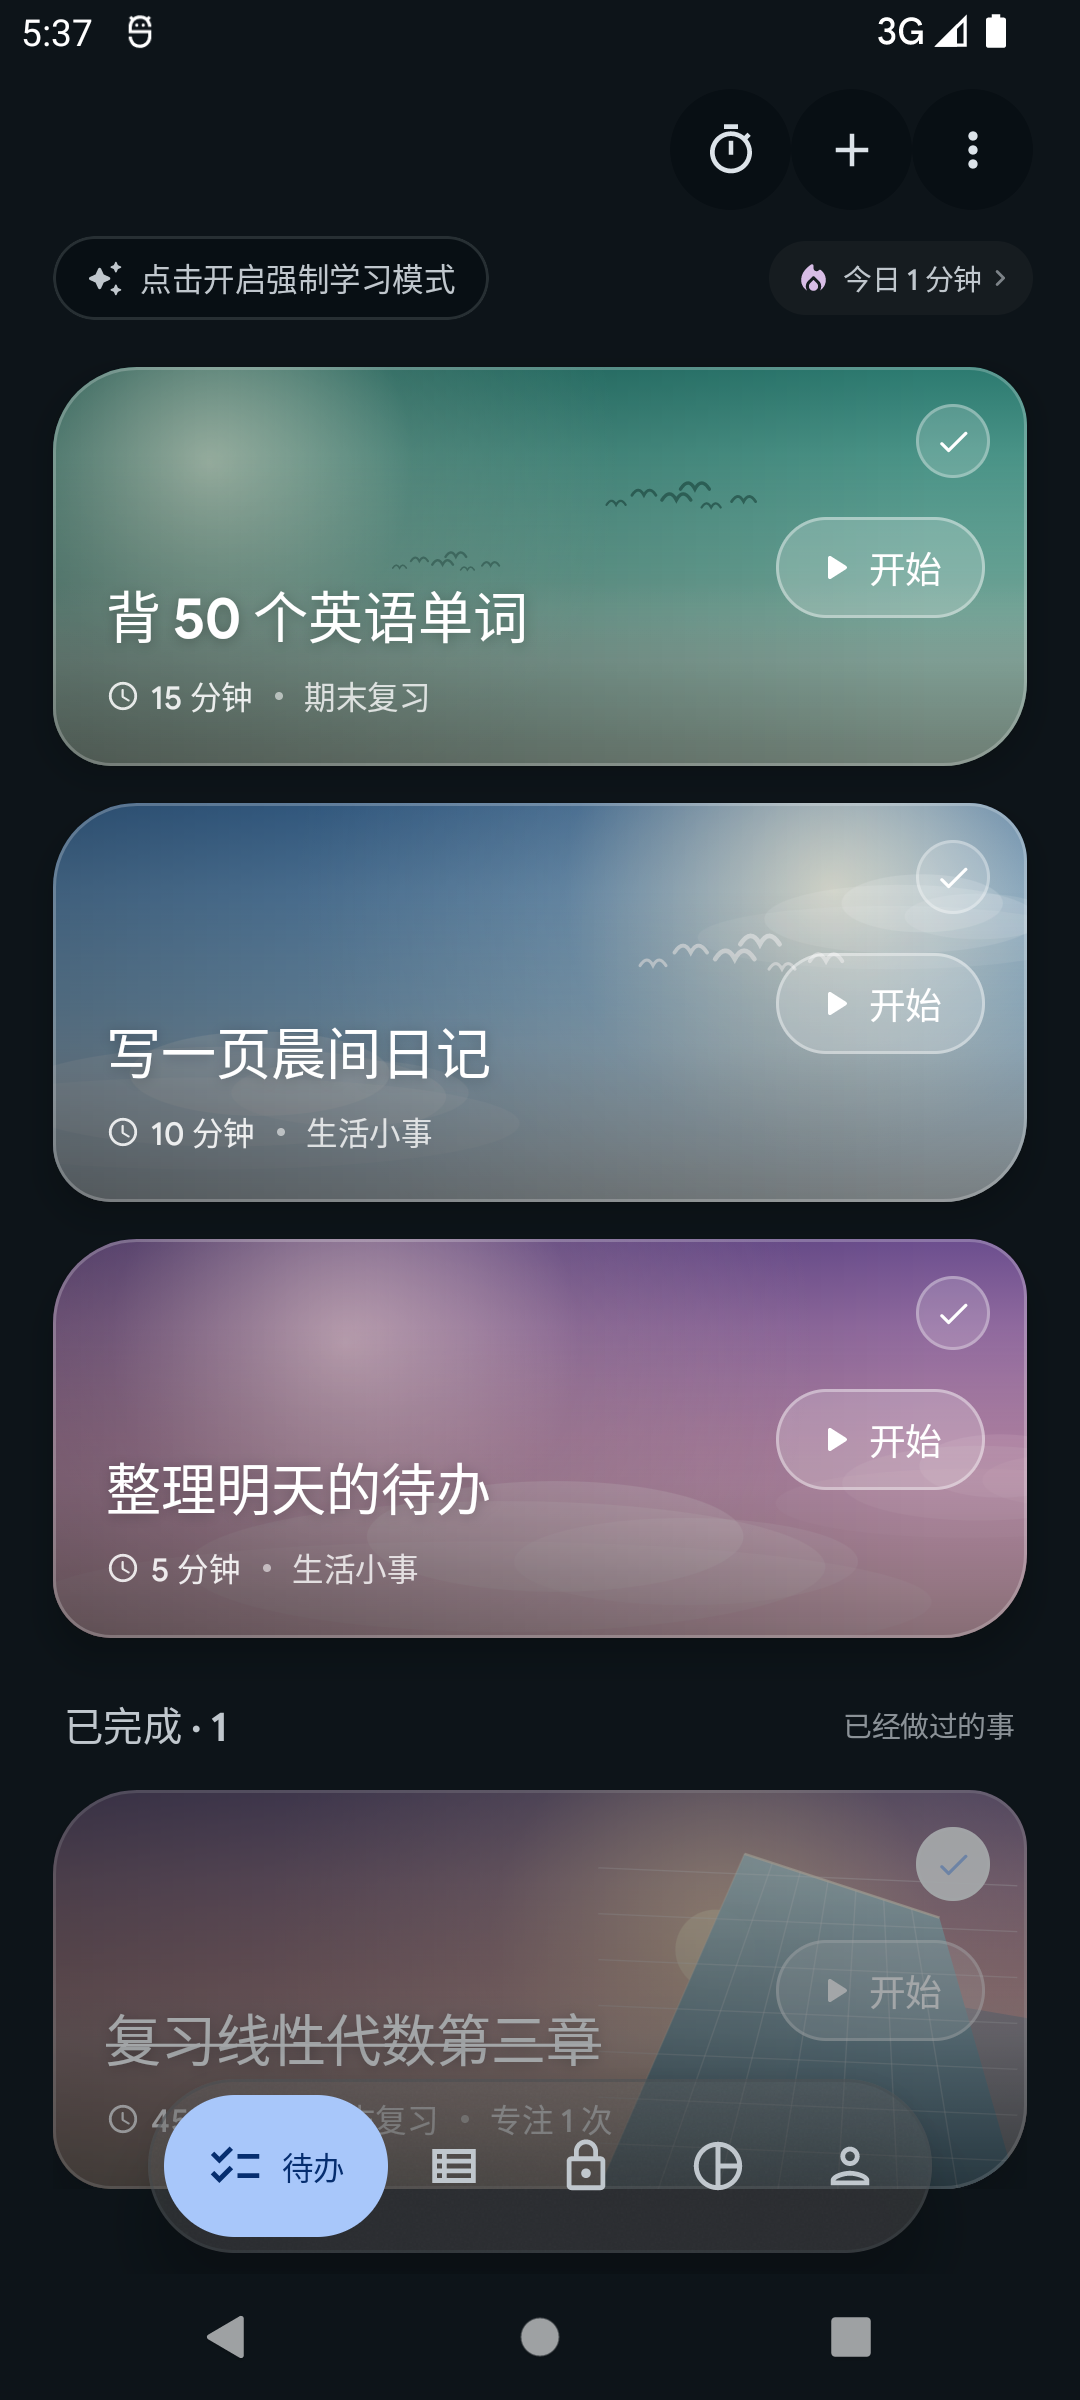
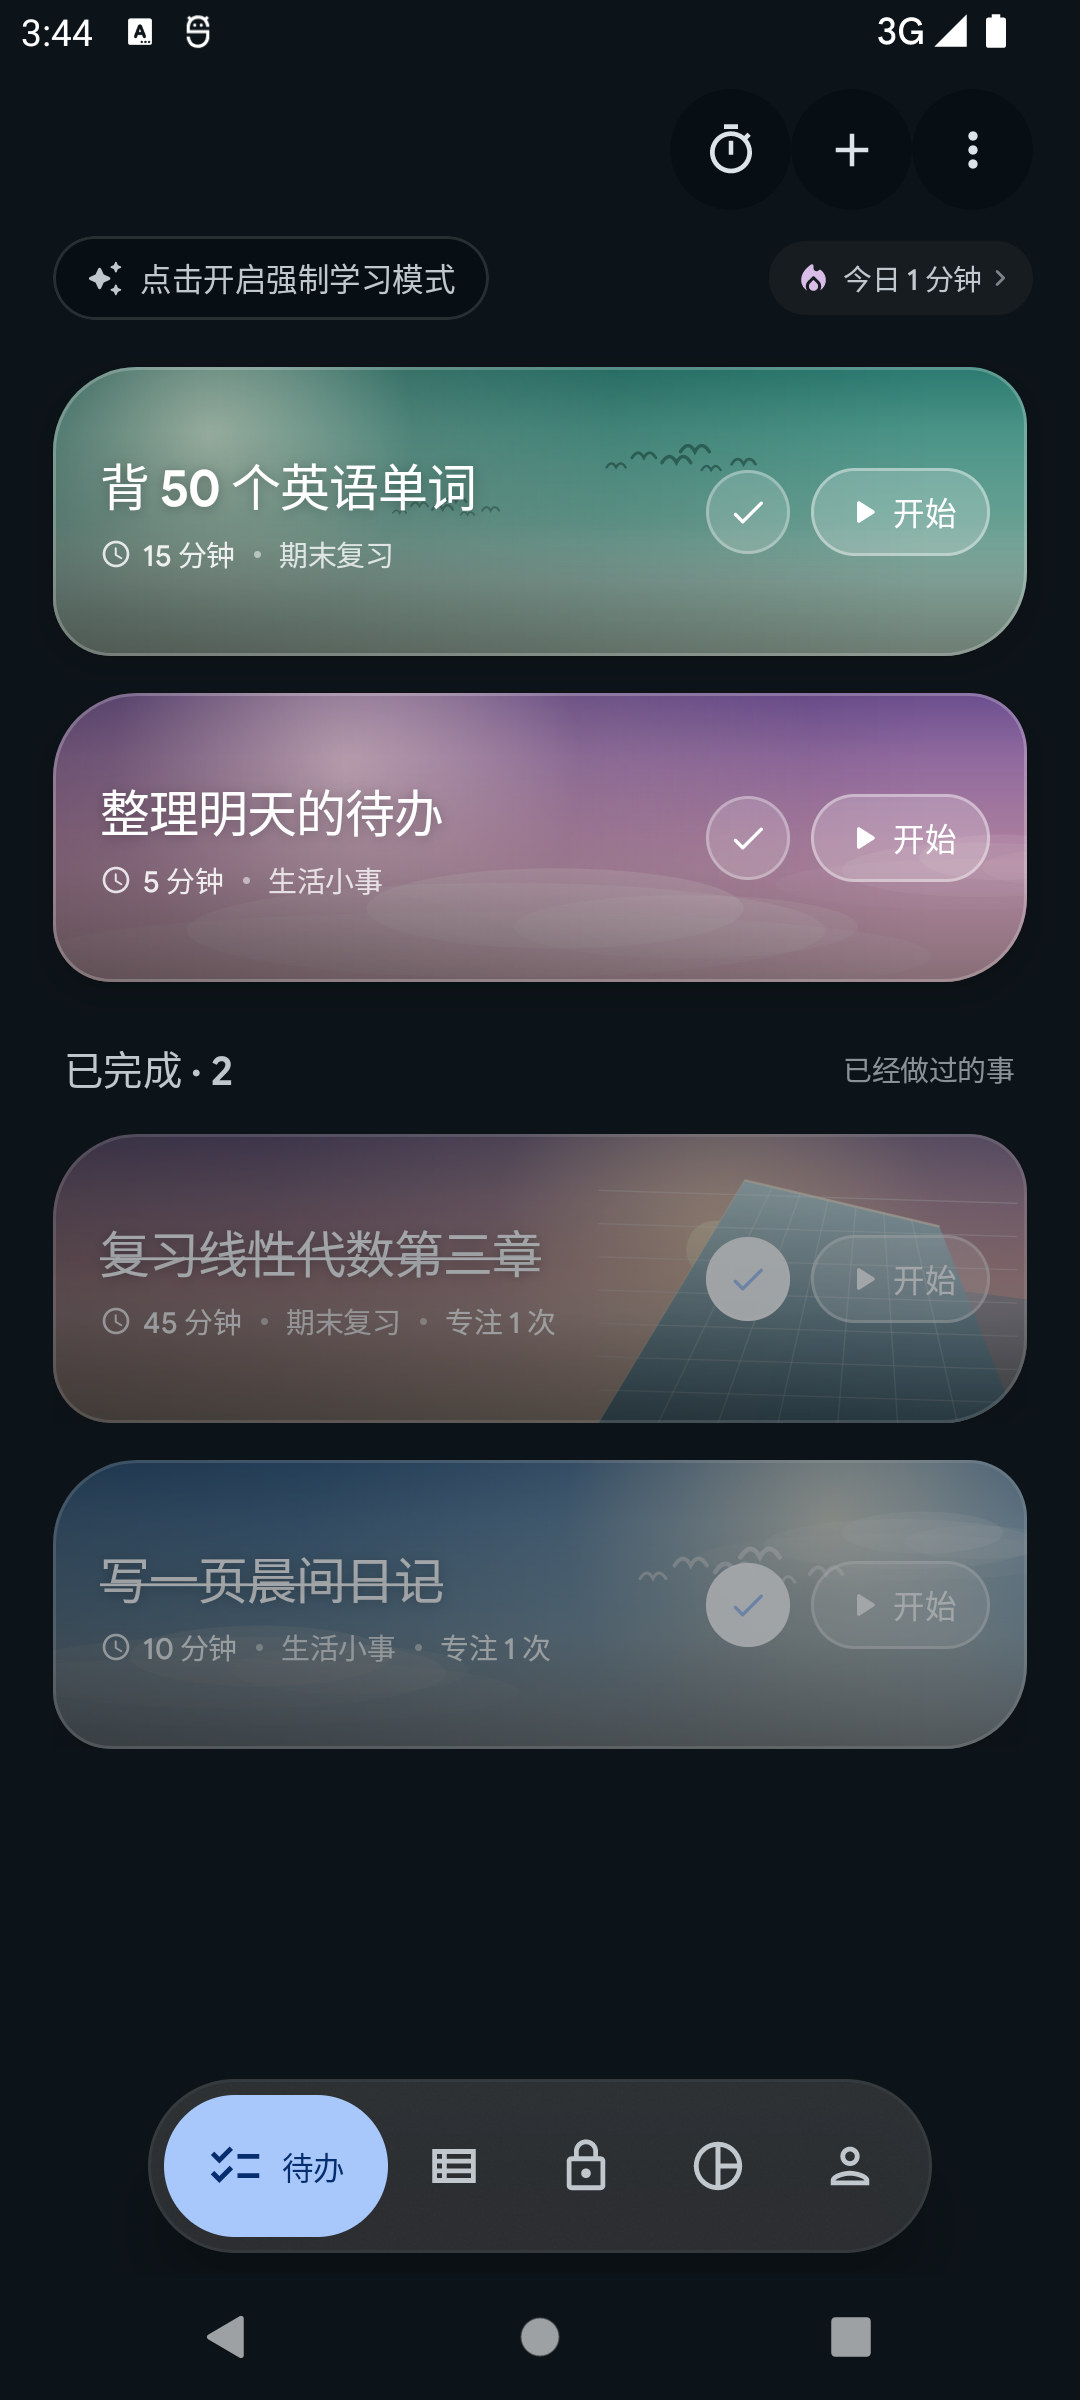
Compact todo cards with inline actions

diff --git a/app/src/main/java/com/tokitodo/app/ui/todos/TodoCard.kt b/app/src/main/java/com/tokitodo/app/ui/todos/TodoCard.kt
@@ -68,7 +68,7 @@ fun TodoCard(
     Box(
         modifier = modifier
             .fillMaxWidth()
-            .height(152.dp)
+            .height(110.dp)
             .alpha(if (todo.done) 0.62f else 1f)
             .shadow(elevation = 10.dp, shape = shape, clip = false)
             .clip(shape)
@@ -97,128 +97,122 @@ fun TodoCard(
                     shape = shape,
                 ),
         )
-        // 完成勾选
-        Surface(
-            onClick = onToggleDone,
-            shape = CircleShape,
-            color = Color.White.copy(alpha = if (todo.done) 0.95f else 0.16f),
-            contentColor = if (todo.done) {
-                MaterialTheme.colorScheme.primary
-            } else {
-                Color.White
-            },
-            border = androidx.compose.foundation.BorderStroke(
-                1.dp,
-                Color.White.copy(alpha = 0.30f),
-            ),
+        Row(
             modifier = Modifier
-                .align(Alignment.TopEnd)
-                .padding(top = 14.dp, end = 14.dp)
-                .size(28.dp),
+                .fillMaxSize()
+                .padding(start = 18.dp, end = 14.dp),
+            verticalAlignment = Alignment.CenterVertically,
         ) {
-            Box(Modifier.fillMaxSize(), contentAlignment = Alignment.Center) {
-                Icon(Icons.Rounded.Check, contentDescription = "完成待办", modifier = Modifier.size(15.dp))
-            }
-        }
-
-        Column(
-            modifier = Modifier
-                .align(Alignment.BottomStart)
-                .fillMaxWidth()
-                .padding(start = 20.dp, end = 20.dp, bottom = 18.dp),
-        ) {
-            Text(
-                text = todo.title,
-                style = MaterialTheme.typography.titleLarge.copy(
-                    fontSize = 21.sp,
-                    fontWeight = FontWeight.SemiBold,
-                    lineHeight = 27.sp,
-                    shadow = Shadow(
-                        color = Color.Black.copy(alpha = 0.28f),
-                        offset = Offset(0f, 2f),
-                        blurRadius = 10f,
-                    ),
-                ),
-                color = Color.White,
-                maxLines = 2,
-                overflow = TextOverflow.Ellipsis,
-                textDecoration = if (todo.done) TextDecoration.LineThrough else null,
-                modifier = Modifier.padding(end = 92.dp),
-            )
-            Spacer(Modifier.height(7.dp))
-            Row(verticalAlignment = Alignment.CenterVertically) {
-                Icon(
-                    imageVector = Icons.Rounded.Schedule,
-                    contentDescription = null,
-                    tint = Color.White.copy(alpha = 0.85f),
-                    modifier = Modifier.size(13.dp),
-                )
-                Spacer(Modifier.width(4.dp))
+            Column(modifier = Modifier.weight(1f)) {
                 Text(
-                    text = "${todo.minutes} 分钟",
-                    style = MaterialTheme.typography.labelMedium,
-                    color = Color.White.copy(alpha = 0.88f),
+                    text = todo.title,
+                    style = MaterialTheme.typography.titleLarge.copy(
+                        fontSize = 19.sp,
+                        fontWeight = FontWeight.SemiBold,
+                        lineHeight = 24.sp,
+                        shadow = Shadow(
+                            color = Color.Black.copy(alpha = 0.30f),
+                            offset = Offset(0f, 2f),
+                            blurRadius = 10f,
+                        ),
+                    ),
+                    color = Color.White,
+                    maxLines = 1,
+                    overflow = TextOverflow.Ellipsis,
+                    textDecoration = if (todo.done) TextDecoration.LineThrough else null,
                 )
-                if (collectionName != null) {
-                    Spacer(Modifier.width(8.dp))
-                    Box(
-                        modifier = Modifier
-                            .size(3.dp)
-                            .clip(CircleShape)
-                            .background(Color.White.copy(alpha = 0.55f)),
+                Spacer(Modifier.height(5.dp))
+                Row(verticalAlignment = Alignment.CenterVertically) {
+                    Icon(
+                        imageVector = Icons.Rounded.Schedule,
+                        contentDescription = null,
+                        tint = Color.White.copy(alpha = 0.82f),
+                        modifier = Modifier.size(12.dp),
                     )
-                    Spacer(Modifier.width(8.dp))
+                    Spacer(Modifier.width(4.dp))
                     Text(
-                        text = collectionName,
-                        style = MaterialTheme.typography.labelMedium,
-                        color = Color.White.copy(alpha = 0.78f),
-                        maxLines = 1,
-                        overflow = TextOverflow.Ellipsis,
-                    )
-                }
-                if (todo.focusCount > 0) {
-                    Spacer(Modifier.width(8.dp))
-                    Box(
-                        modifier = Modifier
-                            .size(3.dp)
-                            .clip(CircleShape)
-                            .background(Color.White.copy(alpha = 0.55f)),
-                    )
-                    Spacer(Modifier.width(8.dp))
-                    Text(
-                        text = "专注 ${todo.focusCount} 次",
-                        style = MaterialTheme.typography.labelMedium,
+                        text = "${todo.minutes} 分钟",
+                        style = MaterialTheme.typography.labelSmall,
                         color = Color.White.copy(alpha = 0.88f),
                     )
+                    if (collectionName != null) {
+                        Spacer(Modifier.width(7.dp))
+                        Box(
+                            modifier = Modifier
+                                .size(2.5.dp)
+                                .clip(CircleShape)
+                                .background(Color.White.copy(alpha = 0.5f)),
+                        )
+                        Spacer(Modifier.width(7.dp))
+                        Text(
+                            text = collectionName,
+                            style = MaterialTheme.typography.labelSmall,
+                            color = Color.White.copy(alpha = 0.78f),
+                            maxLines = 1,
+                            overflow = TextOverflow.Ellipsis,
+                        )
+                    }
+                    if (todo.focusCount > 0) {
+                        Spacer(Modifier.width(7.dp))
+                        Box(
+                            modifier = Modifier
+                                .size(2.5.dp)
+                                .clip(CircleShape)
+                                .background(Color.White.copy(alpha = 0.5f)),
+                        )
+                        Spacer(Modifier.width(7.dp))
+                        Text(
+                            text = "专注 ${todo.focusCount} 次",
+                            style = MaterialTheme.typography.labelSmall,
+                            color = Color.White.copy(alpha = 0.88f),
+                            maxLines = 1,
+                        )
+                    }
                 }
             }
-        }
-
-        // 开始按钮
-        Surface(
-            onClick = onClick,
-            shape = RoundedCornerShape(50),
-            color = Color.White.copy(alpha = 0.20f),
-            contentColor = Color.White,
-            border = androidx.compose.foundation.BorderStroke(1.dp, Color.White.copy(alpha = 0.38f)),
-            modifier = Modifier
-                .align(Alignment.CenterEnd)
-                .padding(end = 16.dp),
-        ) {
-            Row(
-                modifier = Modifier.padding(start = 14.dp, end = 16.dp, top = 9.dp, bottom = 9.dp),
-                verticalAlignment = Alignment.CenterVertically,
-                horizontalArrangement = Arrangement.spacedBy(4.dp),
+            Spacer(Modifier.width(8.dp))
+            Surface(
+                onClick = onToggleDone,
+                shape = CircleShape,
+                color = Color.White.copy(alpha = if (todo.done) 0.95f else 0.16f),
+                contentColor = if (todo.done) {
+                    MaterialTheme.colorScheme.primary
+                } else {
+                    Color.White
+                },
+                border = androidx.compose.foundation.BorderStroke(
+                    1.dp,
+                    Color.White.copy(alpha = 0.30f),
+                ),
+                modifier = Modifier.size(32.dp),
             ) {
-                Icon(
-                    imageVector = Icons.Rounded.PlayArrow,
-                    contentDescription = null,
-                    modifier = Modifier.size(17.dp),
-                )
-                Text(
-                    text = "开始",
-                    style = MaterialTheme.typography.labelLarge,
-                )
+                Box(Modifier.fillMaxSize(), contentAlignment = Alignment.Center) {
+                    Icon(Icons.Rounded.Check, contentDescription = "完成待办", modifier = Modifier.size(16.dp))
+                }
+            }
+            Spacer(Modifier.width(8.dp))
+            Surface(
+                onClick = onClick,
+                shape = RoundedCornerShape(50),
+                color = Color.White.copy(alpha = 0.20f),
+                contentColor = Color.White,
+                border = androidx.compose.foundation.BorderStroke(1.dp, Color.White.copy(alpha = 0.38f)),
+            ) {
+                Row(
+                    modifier = Modifier.padding(horizontal = 12.dp, vertical = 8.dp),
+                    verticalAlignment = Alignment.CenterVertically,
+                    horizontalArrangement = Arrangement.spacedBy(3.dp),
+                ) {
+                    Icon(
+                        imageVector = Icons.Rounded.PlayArrow,
+                        contentDescription = null,
+                        modifier = Modifier.size(16.dp),
+                    )
+                    Text(
+                        text = "开始",
+                        style = MaterialTheme.typography.labelMedium,
+                    )
+                }
             }
         }
     }
